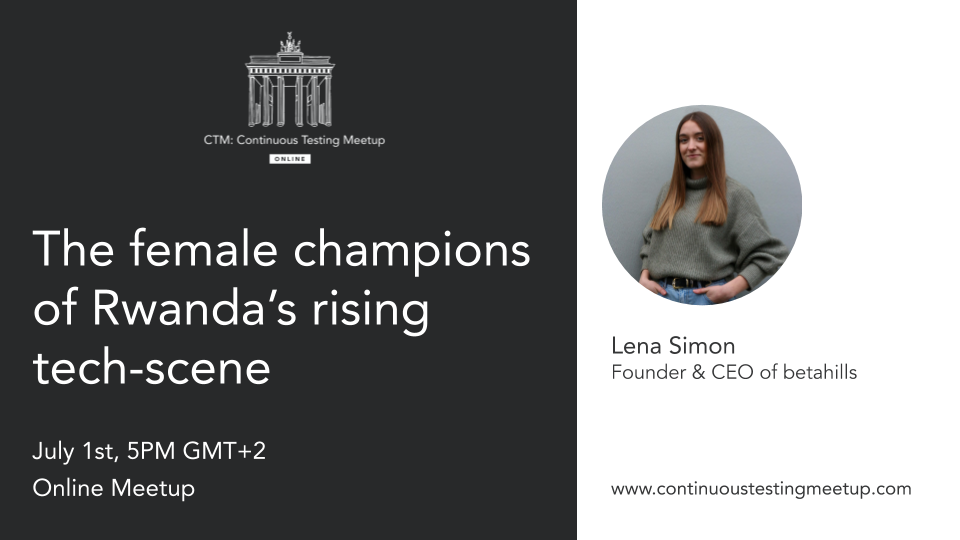
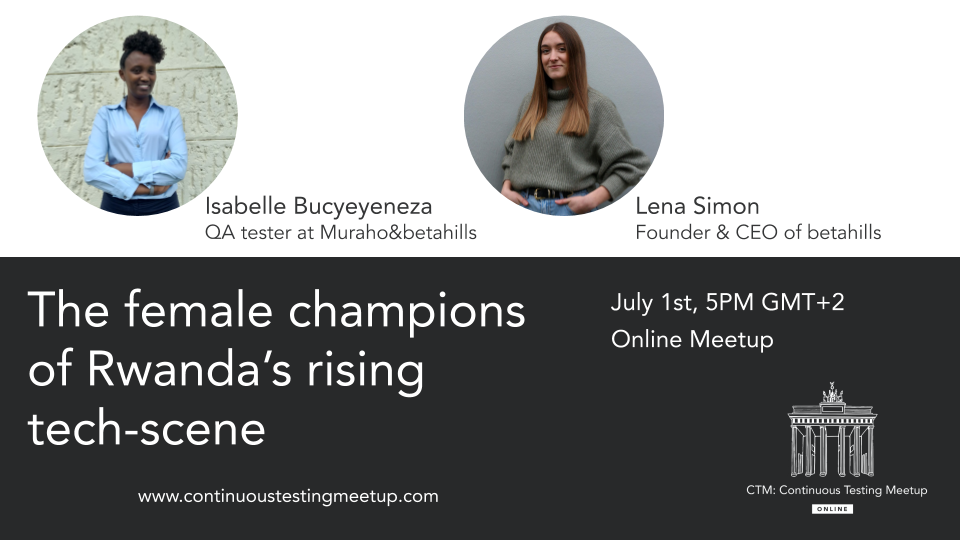
Updating event (#1)

diff --git a/content/events/2020-07-01.md b/content/events/2020-07-01.md
@@ -17,7 +17,7 @@ registration: "https://www.meetup.com/continuous-testing-meetup-berlin/events/27
 ---
 
 ### The female champions of Rwanda's rising tech-scene
-[Lena Simon, Founder & CEO of betahills](https://www.linkedin.com/in/lena-simon-261492184/)
+[Lena Simon, Founder & CEO of betahills](https://www.linkedin.com/in/lena-simon-261492184/) & [Isabelle Bucyeyeneza, QA tester at Muraho&betahills](https://www.linkedin.com/in/bucyeyeneza-isabelle-ctfl-ctfl-pt-261409193/)
 
 Two new innovation hubs per year, most recently one funded by Klarna founder Niklas 
 Adalberth, favorite African launchpad for global actors such as the Volkswagen 
@@ -46,6 +46,8 @@ Betahills/Muraho to becoming Rwanda's leading QA company.
 {{< button-link "https://www.meetup.com/continuous-testing-meetup-berlin/events/271392757/" "Register" >}}
 
 ###### Bio
+Isabelle Bucyeyeneza is a QA tester at Muraho&betahills in Rwanda, who is a passionate team player and leader. Graduating from an IT-training program and accessing the technology world, changed her life. What drives her most in life is to aim for a higher representation of women in tech by inspiring and promoting women to follow a career in technology, especially in Africa. She is known for her celebrations of every single achievement she and her team make by dancing around.
+
 Lena is the Founder & CEO of betahills, a software testing company working with an 
 all-female team of testers in Rwanda. By founding betahills, Lena sought to combine 
 her passion for excellence in technology with her desire to achieve social impact 
